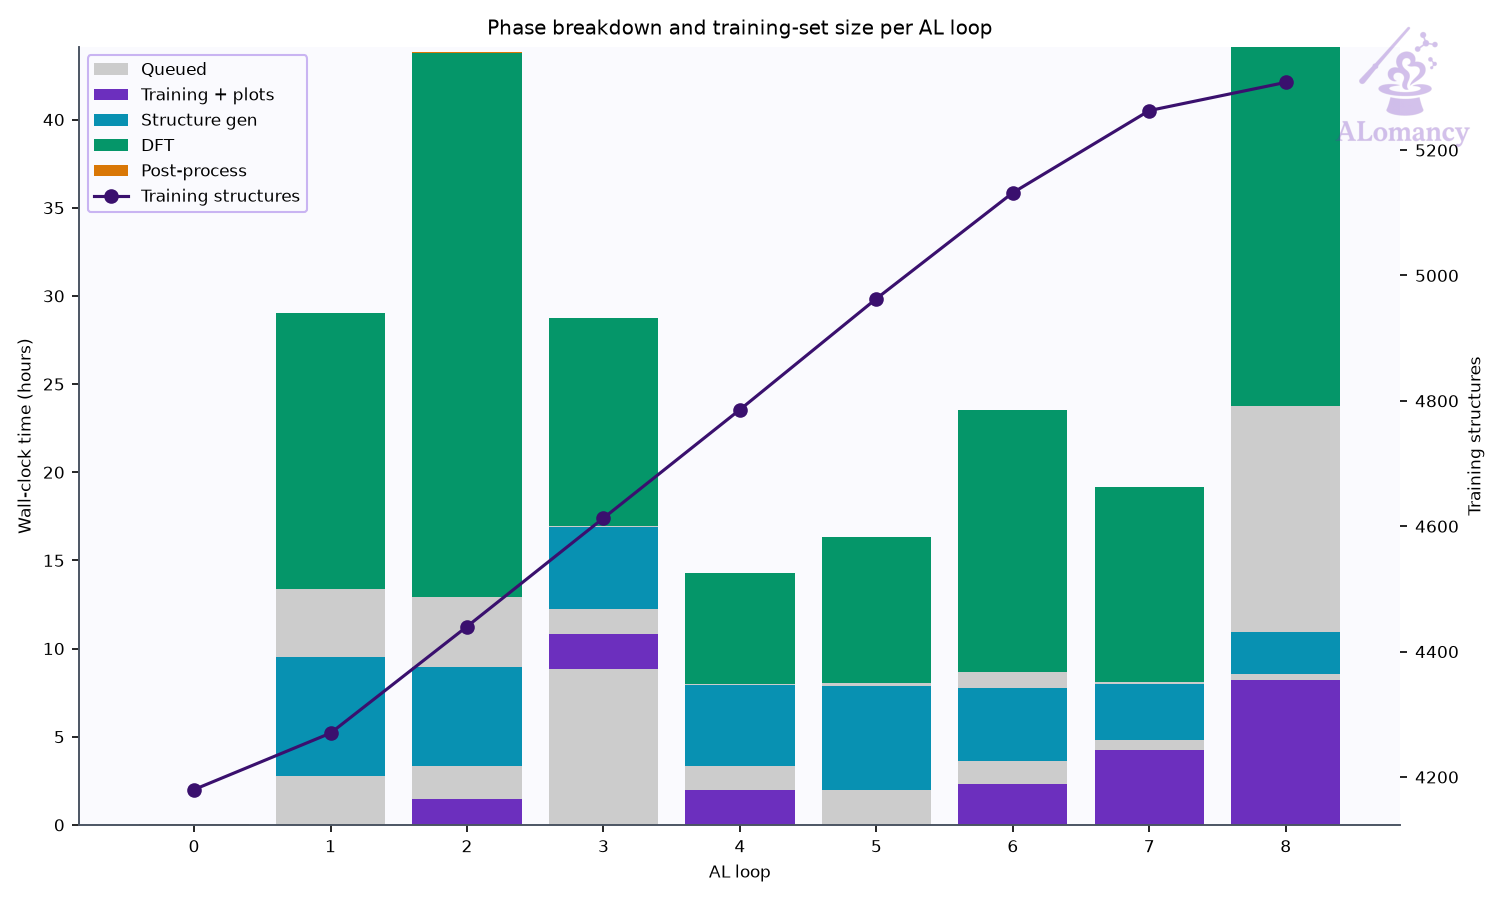
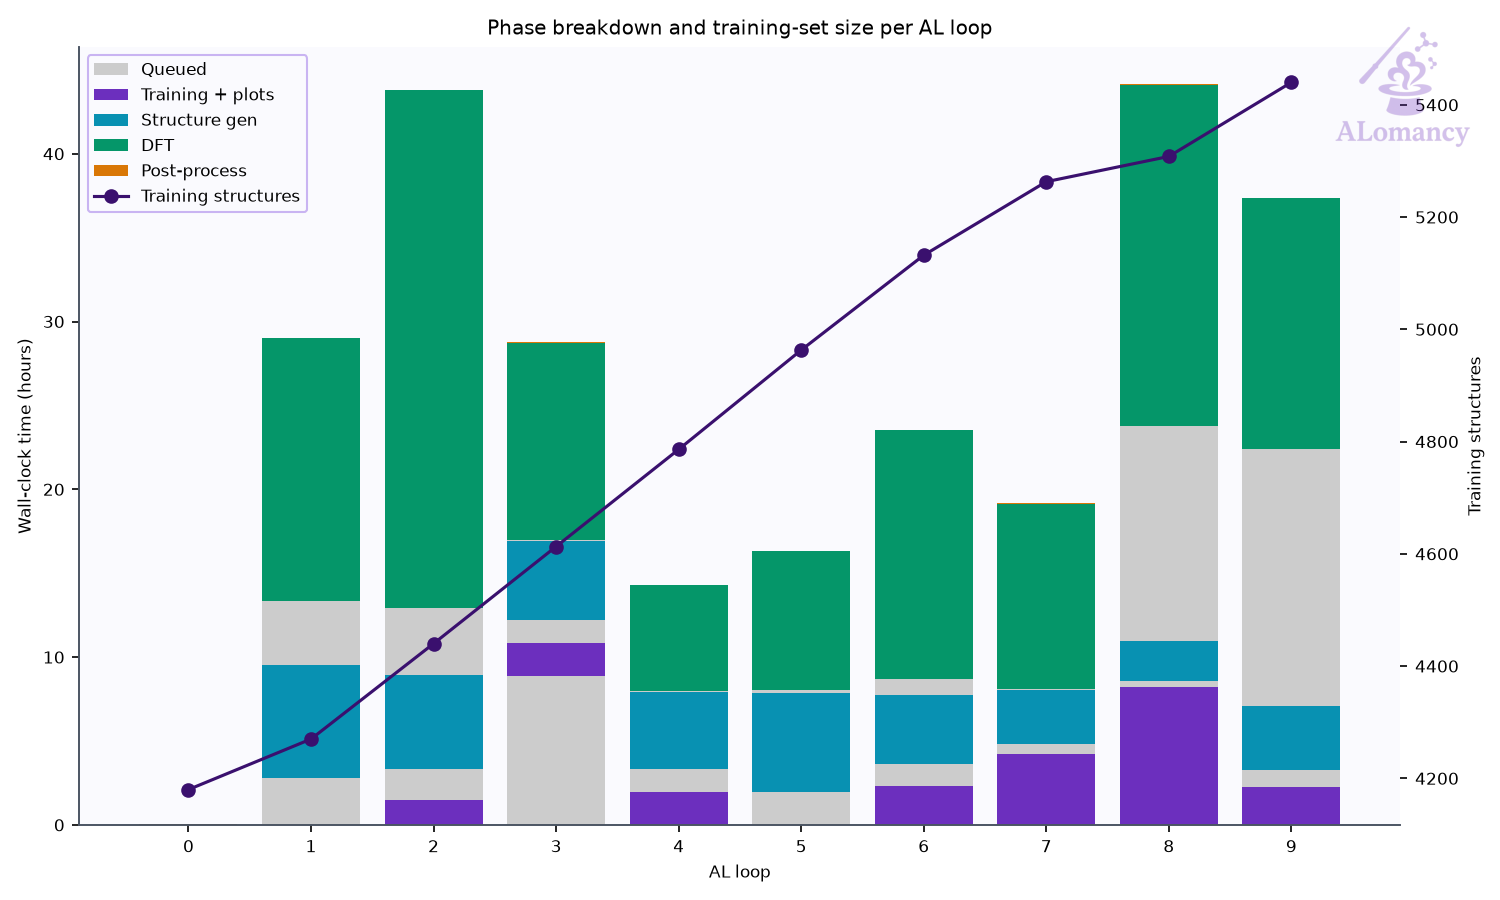
update good_c

diff --git a/alomancy/good_c/report/report.md b/alomancy/good_c/report/report.md
@@ -1,27 +1,27 @@
-# ALomancy report: al_loop_8
+# ALomancy report: al_loop_9
 
-Workflow `committee_uncertainty` · trainer `mace` · generator `md` · evaluator `qe` · generated 2026-11-13T00:36:52
+Workflow `committee_uncertainty` · trainer `mace` · generator `md` · evaluator `qe` · generated 2026-11-14T14:02:43
 
-**Status:** ✖ 2 errors · 💡 1 info · 17 warning(s) logged
+**Status:** ✖ 2 errors · 💡 1 info · 12 warning(s) logged
 
 ## Headline
 
-| | loop 7 | loop 8 | change |
+| | loop 8 | loop 9 | change |
 |---|---:|---:|---:|
-| Best model test force MAE (eV/Å) | 0.197 | 0.194 | -1% |
-| Best model test energy MAE (meV/atom) | 18.7 | 28.7 | +53% |
-| Training structures | 5.31e+03 | 5.44e+03 | +2% |
-| Test structures | 564 | 582 | +3% |
-| New structures this loop | 21 | 58 | +176% |
-| Warnings / errors logged | 71 | 17 | -76% |
+| Best model test force MAE (eV/Å) | 0.194 | 0.195 | +0% |
+| Best model test energy MAE (meV/atom) | 28.7 | 35.5 | +24% |
+| Training structures | 5.44e+03 | 5.59e+03 | +3% |
+| Test structures | 582 | 601 | +3% |
+| New structures this loop | 58 | 40 | -31% |
+| Warnings / errors logged | 17 | 12 | -29% |
 
 Best model: fit_0 of 3 (chosen on the `valid` split).
 
 ## Issues & suggestions
 
-- ✖ **remote_jobs_failed**: 14/157 remote jobs (9%) failed (12) or died (2). Check the job logs (results/alomancy.log has each failure's traceback); jobs killed by the scheduler usually need a longer max_time for that phase, or a partition with more memory.
-- ✖ **dft_partial_failure**: 14/100 structures sent to DFT (14%) came back without a result. Check the DFT output in results/<loop>/high_accuracy_evaluation; raise high_accuracy_evaluation.max_time / max_go_time if jobs timed out.
-- 💡 **overfitting**: The best model's test force MAE (0.194 eV/Å) is 2.4x its training MAE (0.0799 eV/Å). The test set covers configurations training doesn't: keep adding data, or raise general.dataset_kwargs.valid_fraction to select models on held-out data.
+- ✖ **remote_jobs_failed**: 8/156 remote jobs (5%) failed (7) or died (1). Check the job logs (results/alomancy.log has each failure's traceback); jobs killed by the scheduler usually need a longer max_time for that phase, or a partition with more memory.
+- ✖ **dft_partial_failure**: 8/100 structures sent to DFT (8%) came back without a result. Check the DFT output in results/<loop>/high_accuracy_evaluation; raise high_accuracy_evaluation.max_time / max_go_time if jobs timed out.
+- 💡 **queue_dominated**: high_accuracy_evaluation spent 51% of its time (15.3 h) queued. Raise max_num_of_concurrent_jobs in the HPC profile or use a less busy partition.
 
 ## Trends
 
@@ -36,6 +36,7 @@ Best model: fit_0 of 3 (chosen on the `valid` split).
 | 6 | 0.196 | 5263 | 75 | 92/100 | 100% | 0 | 12 |
 | 7 | 0.197 | 5308 | 21 | 32/100 | 100% | 0 | 71 |
 | 8 | 0.194 | 5440 | 58 | 86/100 | 99% | 0 | 17 |
+| 9 | 0.195 | 5592 | 40 | 92/100 | 96% | 0 | 12 |
 
 ![Best-model MAE per loop](plots/training_al_loop_mae_plot.png)
 
@@ -45,7 +46,7 @@ Best model: fit_0 of 3 (chosen on the `valid` split).
 
 ![Best model parity](plots/best_model_parity.png)
 
-Median relative error: train energy 0.1%, force 8.5%; test energy 0.1%, force 17.5%.
+Median relative error: train energy 0.1%, force 11.4%; test energy 0.2%, force 18.7%.
 Energies with |formation energy| < 0.05 eV/atom and atoms with |F| < 0.1 eV/Å are left out; force error is |ΔF|/|F| per atom.
 
 ![Best model percentage error](plots/best_model_percent_error.png)
@@ -56,7 +57,7 @@ Energies with |formation energy| < 0.05 eV/atom and atoms with |F| < 0.1 eV/Å a
 |---|---:|---:|---:|---:|
 | CNa_dataset | 3538 | 392 | 662 | 4592 |
 | IsolatedAtom | 1 | 0 | 0 | 1 |
-| high_sd | 1582 | 186 | 152 | 1920 |
+| high_sd | 1734 | 205 | 165 | 2104 |
 | init_MP | 7 | 1 | 0 | 8 |
 | init_amorphous | 26 | 3 | 0 | 29 |
 | init_dimer | 99 | 0 | 0 | 99 |
@@ -65,11 +66,11 @@ Energies with |formation energy| < 0.05 eV/atom and atoms with |F| < 0.1 eV/Å a
 | init_trimer | 50 | 0 | 0 | 50 |
 | on_hull | 1 | 0 | 0 | 1 |
 | on_hull_expansion | 11 | 0 | 9 | 20 |
-| **all** | **5440** | **582** | **1240** | **7262** |
+| **all** | **5592** | **601** | **1253** | **7446** |
 
-- Redundancy removal: 0 structure(s) flagged in total, 0 of this loop's 58 new.
-- DFT geometry-optimisation starting frames: 114 stored this loop, 92 used (the rest excluded by the train/test filters or redundancy removal).
-- Quality filters: high_force: 1231, formation_energy: 21.
+- Redundancy removal: 0 structure(s) flagged in total, 0 of this loop's 40 new.
+- DFT geometry-optimisation starting frames: 144 stored this loop, 131 used (the rest excluded by the train/test filters or redundancy removal).
+- Quality filters: high_force: 1244, formation_energy: 21.
 
 ![Training set composition](plots/training_set_composition.png)
 
@@ -77,17 +78,17 @@ Energies with |formation energy| < 0.05 eV/atom and atoms with |F| < 0.1 eV/Å a
 
 Redundancy removal flags near-duplicate training structures, so the model isn't trained on many copies of the same geometry. Each structure is described by `char_vec_128`: all of its interatomic distances, sorted and resampled to 128 values (`global_descriptor/atomic_distance_descriptor.make_char_vec`). Two structures count as duplicates when the Euclidean distance between their descriptors is below a tolerance: in database order, each structure still in the training set is kept unless it is within the tolerance of one already kept. The plot sweeps that tolerance and counts how many structures are kept at each value. **We are looking for plateaus** (shaded): ranges where the count doesn't change, so the result doesn't depend on the exact tolerance. The orange line (right axis) is the number of structures removed between consecutive tolerance steps, the gradient of the count: zero on a plateau. The start of the lowest plateau at least `general.redundancy_kwargs.min_plateau_width` of the swept range wide is used (dashed line). Nothing is flagged when no plateau qualifies, or when it would flag more than `max_flagged_fraction` of the structures; `general.redundancy_kwargs.tolerance` sets the tolerance directly.
 
-- This loop: 5,153 structures probed; the lowest plateau would flag more than 50% of them, so nothing was flagged.
+- This loop: 5,305 structures probed; the lowest plateau would flag more than 50% of them, so nothing was flagged.
 
 ![Redundancy tolerance probe](plots/redundancy_tolerance_probe.png)
 
 ## DFT
 
-- Structures: 86 returned of 100 submitted (86 relaxed, 0 single point).
-- Geometry optimisation: 85/86 reached the force ceiling (0.05 eV/Å); steps mean 28.3, median 26, max 200 of 200 allowed.
-- Average DFT time per relaxation: 167.3 min (median 126.0, max 861.7; 86 structures).
-- Largest per-atom force after DFT: median 0.04, max 0.31 eV/Å.
-- DFT phase wall-clock: 33.2 h (mean queue time 770 min).
+- Structures: 92 returned of 100 submitted (92 relaxed, 0 single point).
+- Geometry optimisation: 88/92 reached the force ceiling (0.05 eV/Å); steps mean 23.0, median 13, max 200 of 200 allowed.
+- Average DFT time per relaxation: 91.2 min (median 52.4, max 732.4; 92 structures).
+- Largest per-atom force after DFT: median 0.04, max 2.78 eV/Å.
+- DFT phase wall-clock: 30.3 h (mean queue time 918 min).
 
 **Structures evaluated with DFT this loop (final geometries)**
 
@@ -95,14 +96,14 @@ Redundancy removal flags near-duplicate training structures, so the model isn't 
 
 ## MLIP training: mace
 
-- Best fit (fit_0) trained for 299 epochs, stage two from epoch 240; weights kept from epoch 295.
+- Best fit (fit_0) trained for 299 epochs, stage two from epoch 240; weights kept from epoch 247.
 
 ![Best model training curve](plots/best_model_training_curve.png)
 
 ## Structure generation: MD
 
 - Runs: 50 (50 completed, 0 seed(s) replaced)
-- Frames: 10000 recorded, 9075 physical (no bond < 0.5 Å, volume ≤ 3 x the seed's; 875 frame(s) cut after a run expanded past it, seed frames left out), 1000 picked as candidates, spread over each run
+- Frames: 10000 recorded, 8933 physical (no bond < 0.5 Å, volume ≤ 3 x the seed's; 1017 frame(s) cut after a run expanded past it, seed frames left out), 1000 picked as candidates, spread over each run
 - Ensemble npt, T = 500 K, timestep 0.2 fs
 
 ![MD frames per run](plots/md_frames_per_run.png)
@@ -117,7 +118,7 @@ Redundancy removal flags near-duplicate training structures, so the model isn't 
 
 ## Selection: committee uncertainty
 
-- 986 candidates scored; 100 selected (10 %; max force std dev ≥ 0.35 eV/Å).
+- 985 candidates scored; 100 selected (10 %; max force std dev ≥ 0.458 eV/Å).
 
 ![Committee force std dev](plots/committee_force_std_dev.png)
 
@@ -127,9 +128,10 @@ Redundancy removal flags near-duplicate training structures, so the model isn't 
 |---|---|---:|
 | `blown_up_excluded` | blown-up cells kept from DFT (volume >> vdW volume) | 1 |
 | `dft_summary` | DFT batch summary | 1 |
-| `job_died` | remote job died (killed / lost) | 2 |
-| `job_failed` | remote job failed | 12 |
-| `jobs_started` | remote jobs started | 5 |
+| `job_died` | remote job died (killed / lost) | 1 |
+| `job_failed` | remote job failed | 7 |
+| `job_resumed` | transient remote error, polling resumed | 1 |
+| `jobs_started` | remote jobs started | 4 |
 | `md_summary` | MD summary | 1 |
 | `md_volume_expanded` | MD runs cut after expanding past max_volume_ratio | 1 |
 | `quality_filtered` | train/test quality filter passes | 2 |
